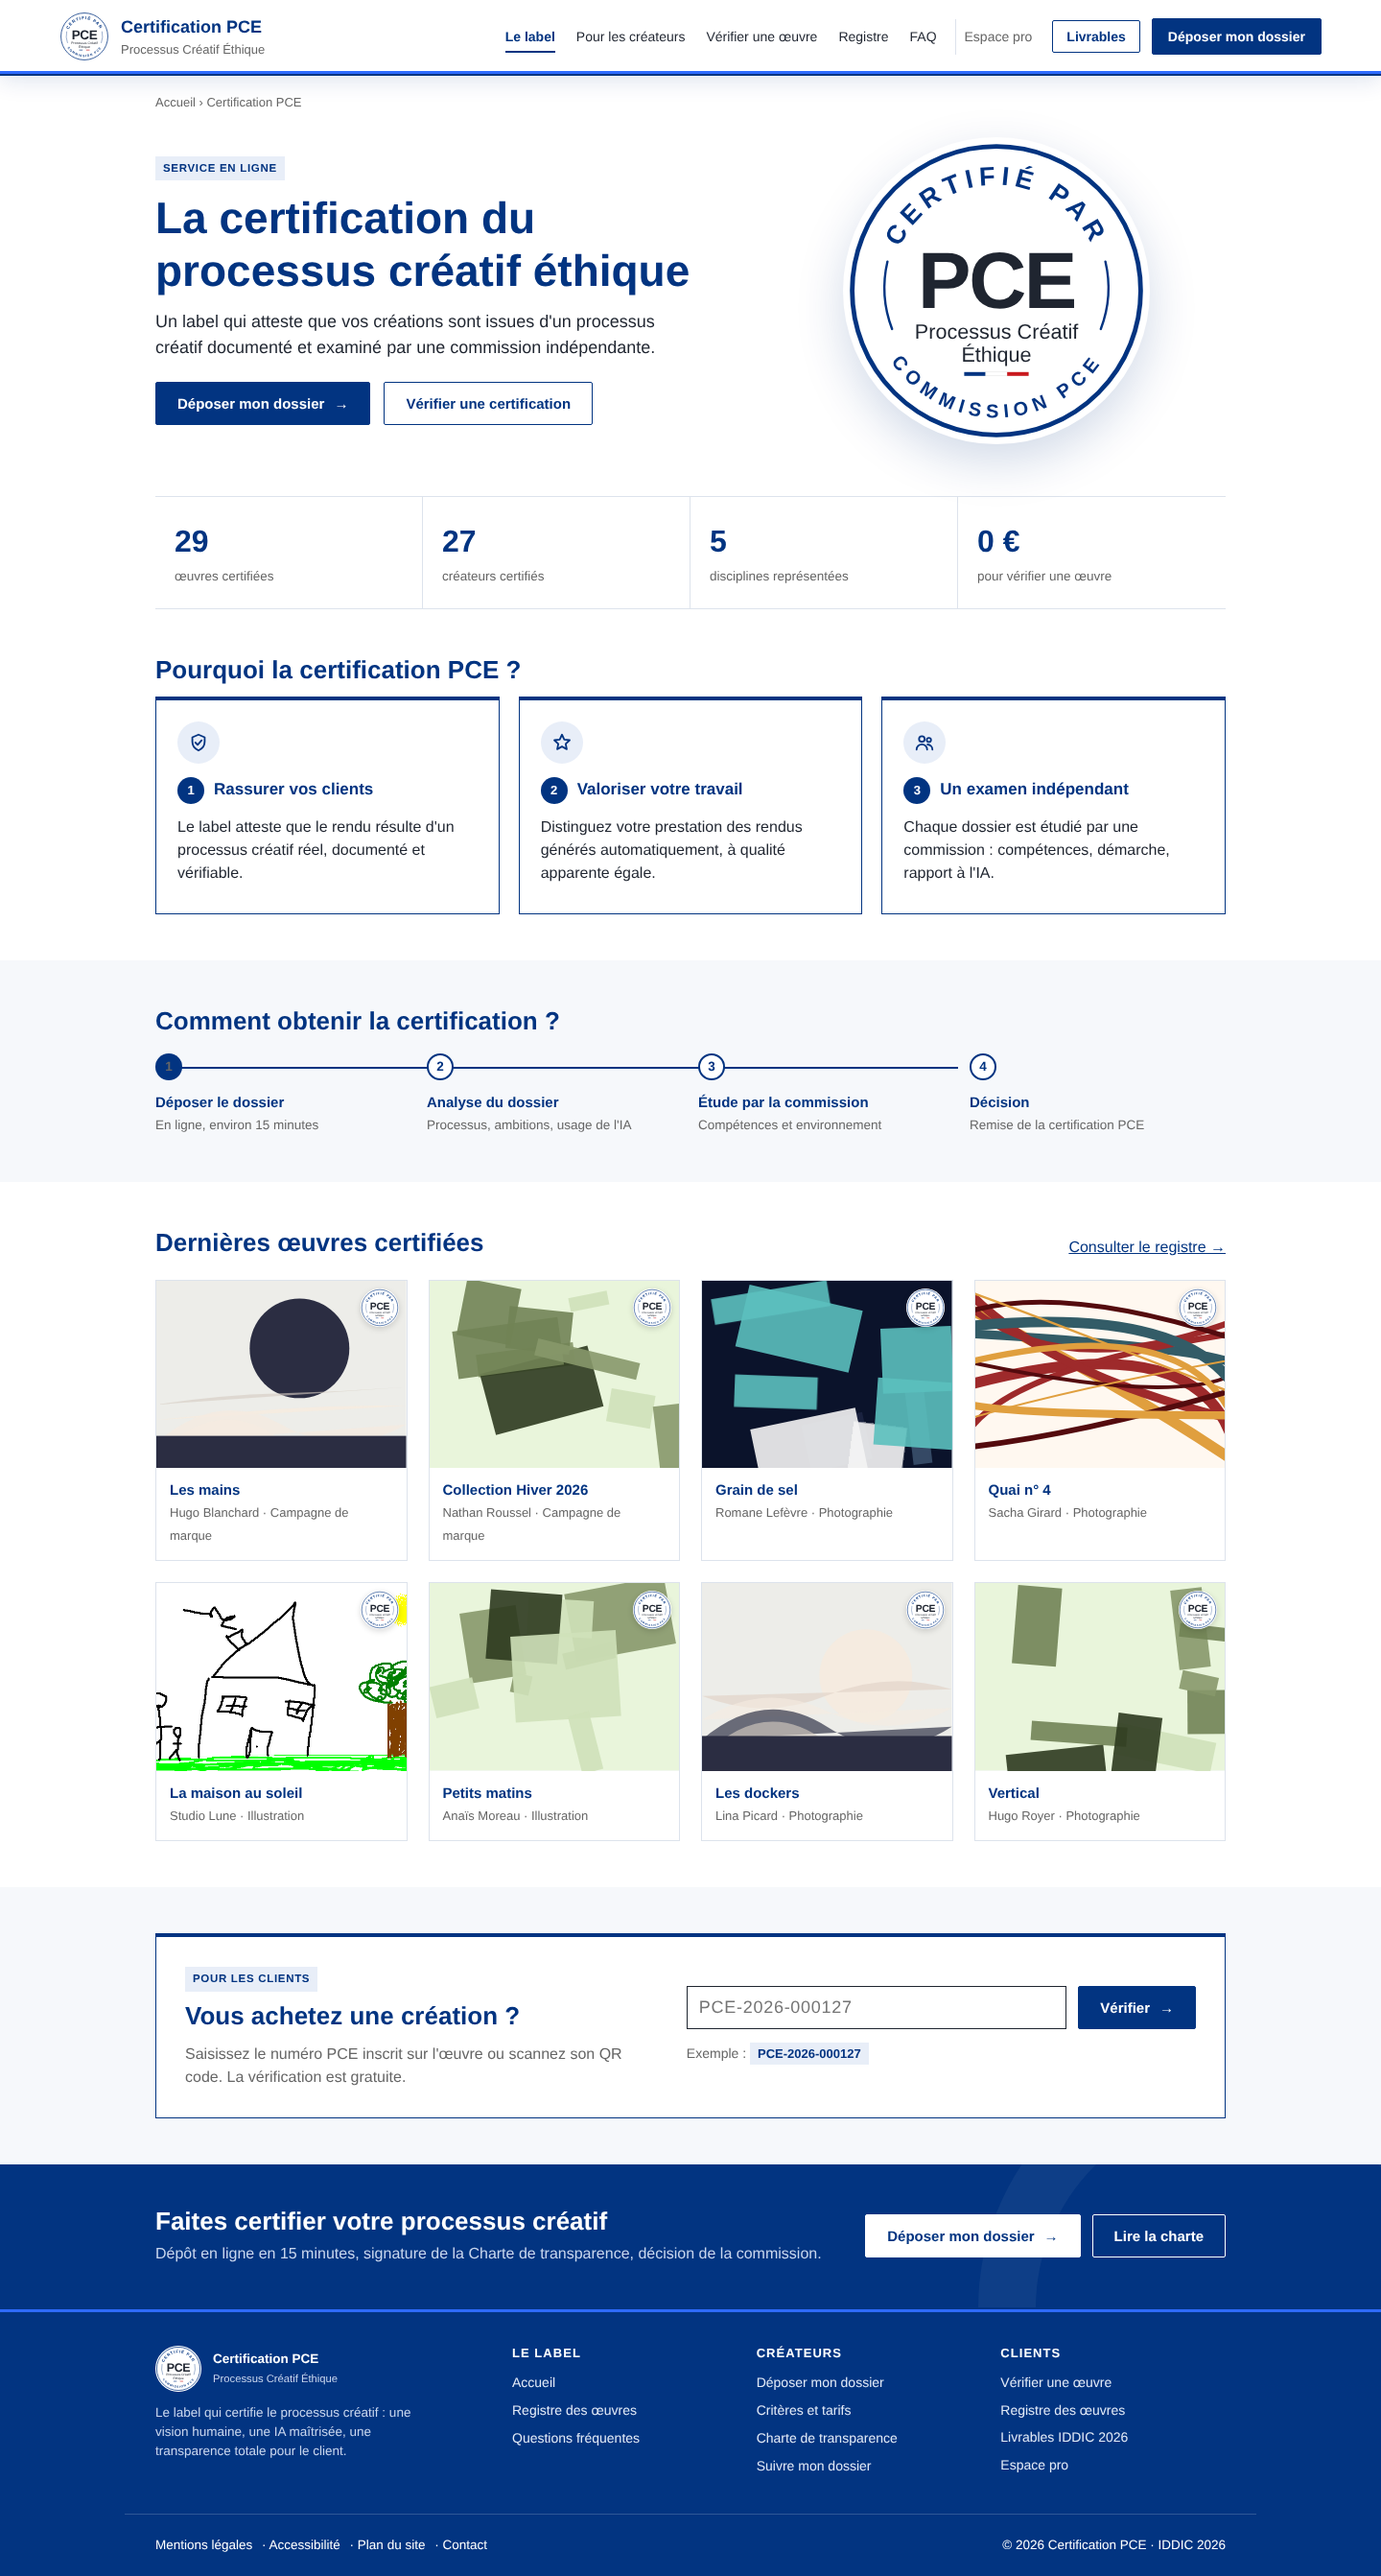
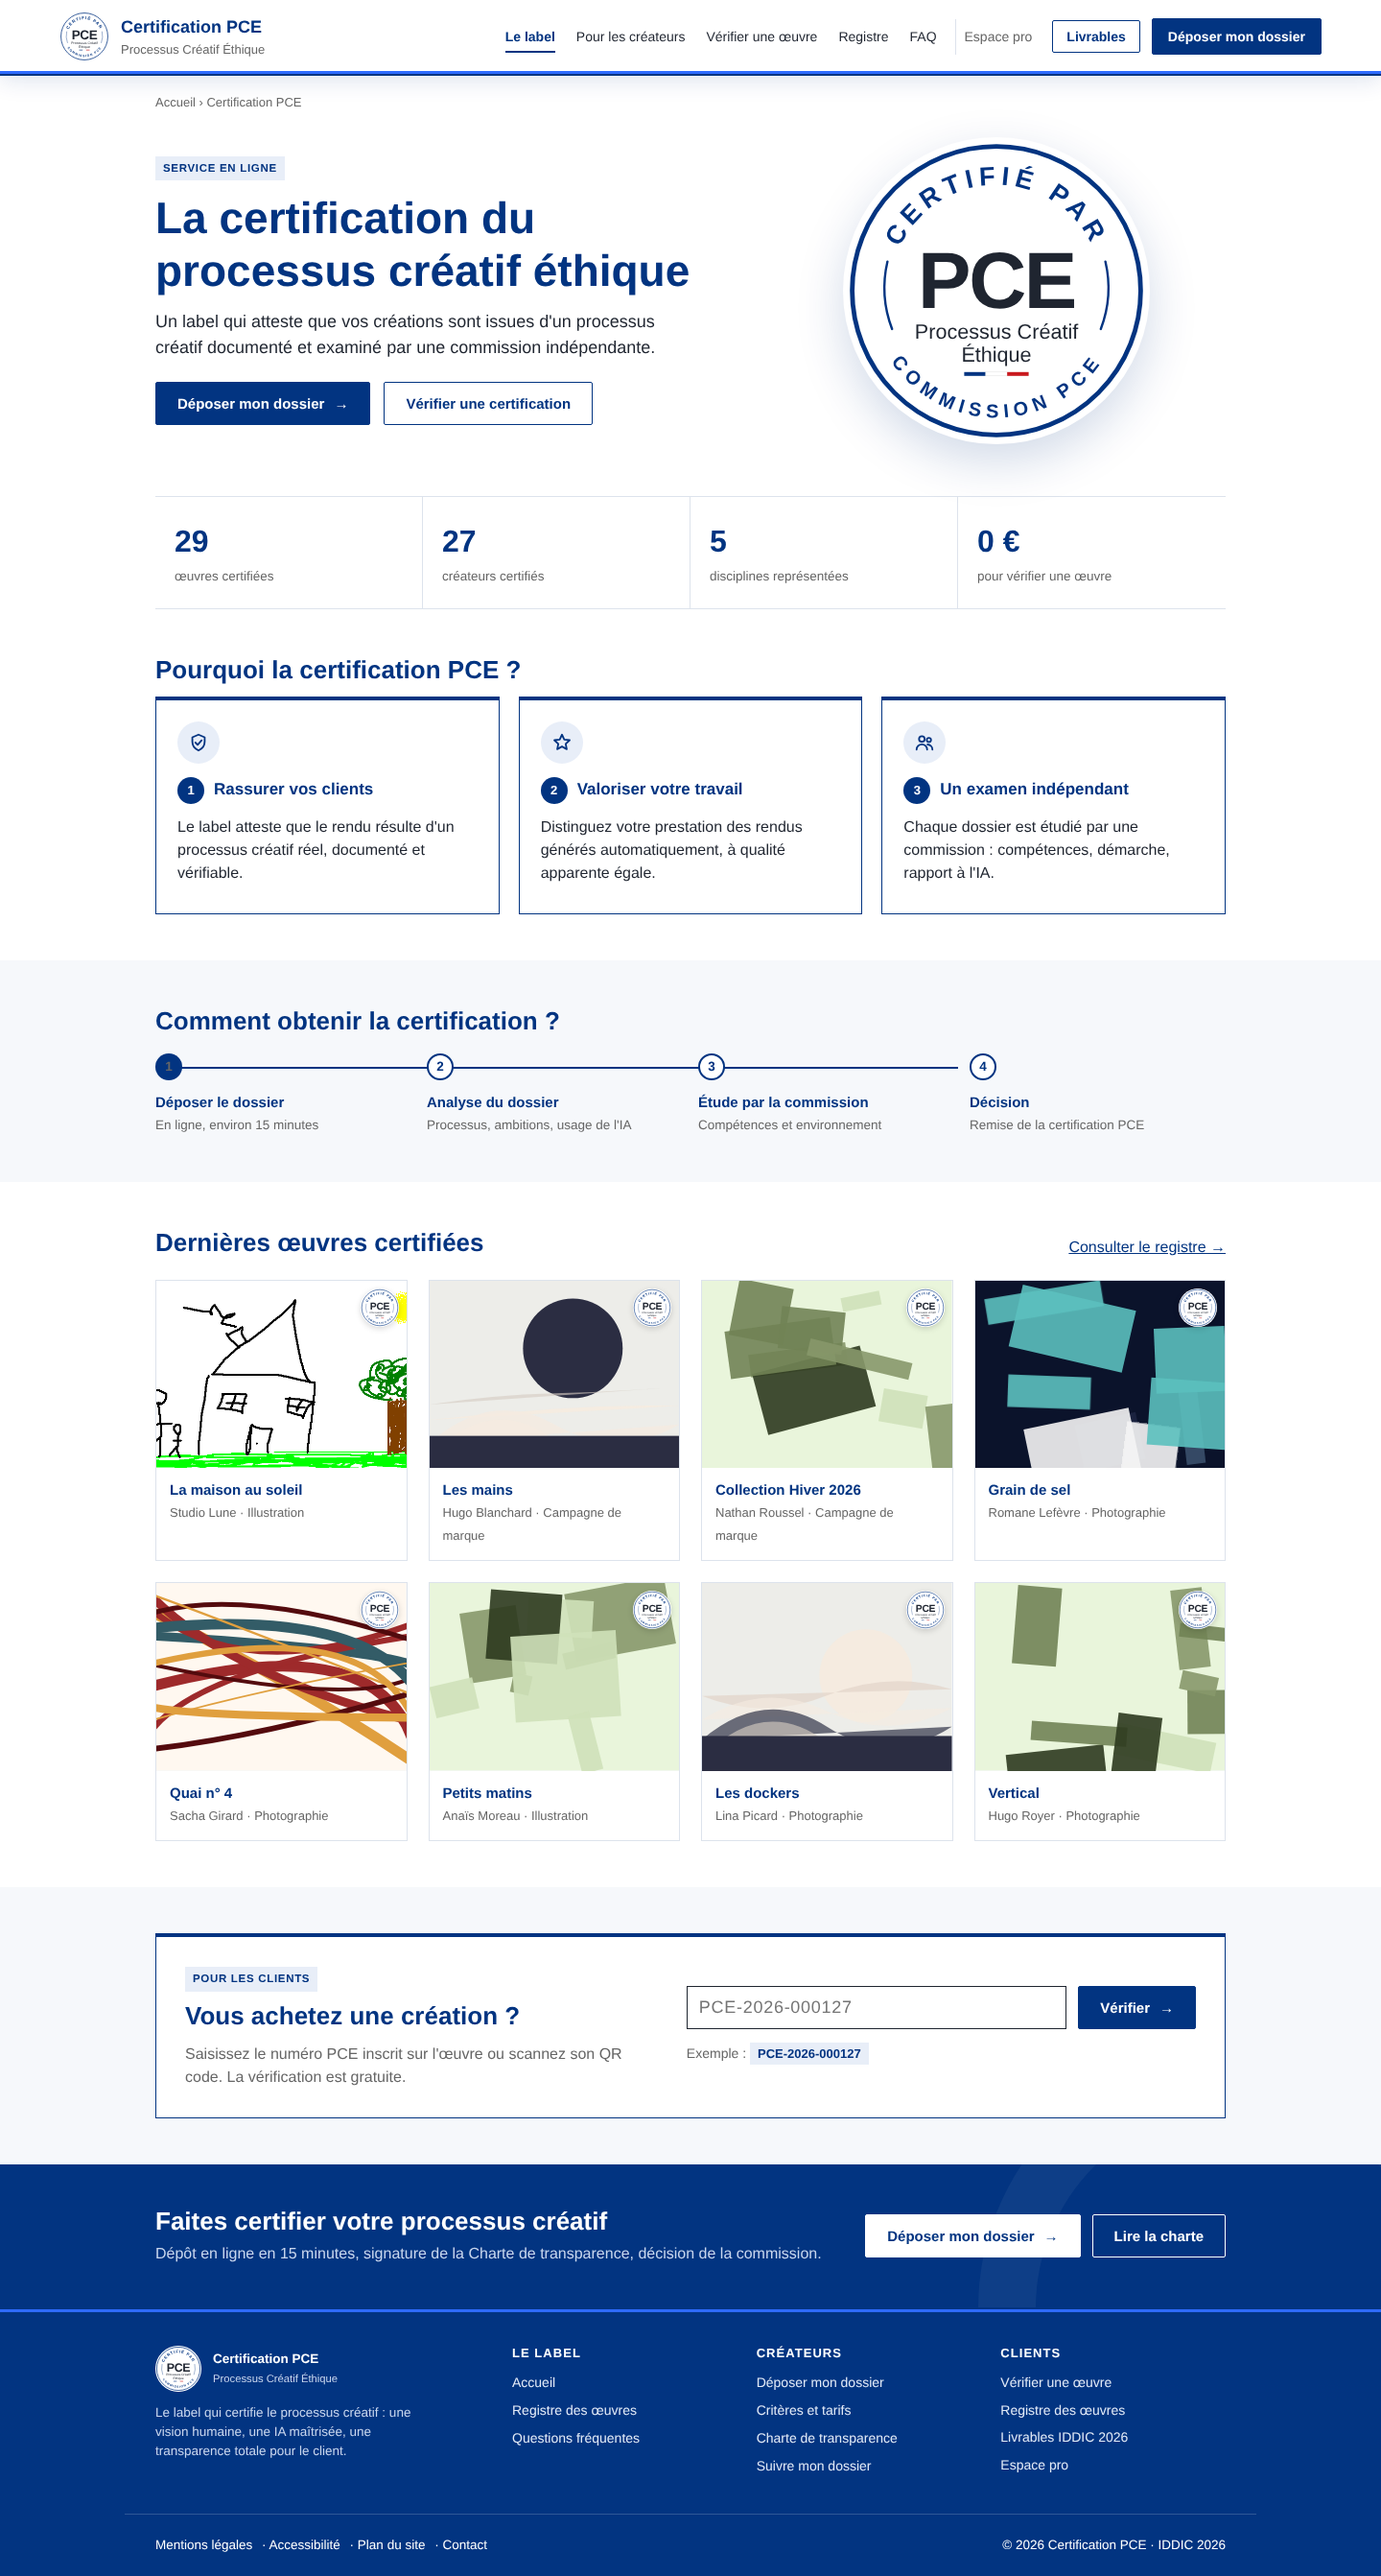
La maison au soleil en tête des dernières œuvres et du registre
Claude-Session: https://claude.ai/code/session_013D7uRxLFz2dHeA6eheZQbo

Changed region(s): [[0.0938, 0.4946, 0.9062, 0.5873], [0.0938, 0.6182, 0.3125, 0.711]]

diff --git a/livrable/Prototype_PCE.html b/livrable/Prototype_PCE.html
@@ -2967,7 +2967,7 @@ function vueAccueil() {
   </div></section>
   <section class="section"><div class="conteneur">
     <div style="display:flex;justify-content:space-between;align-items:end;gap:16px;flex-wrap:wrap" class="rev"><h2 style="margin:0">Dernières œuvres certifiées</h2><a href="#/registre">Consulter le registre →</a></div>
-    <div class="galerie" style="margin-top:22px">${cert.slice(0, 8).map(carteOeuvre).join("")}</div>
+    <div class="galerie" style="margin-top:22px">${vedetteEnTete(cert).slice(0, 8).map(carteOeuvre).join("")}</div>
   </div></section>
   <section class="section fond"><div class="conteneur"><div class="verif-home rev">
     <div><span class="tag">Pour les clients</span><h2 style="margin-top:10px">Vous achetez une création ?</h2><p class="muted" style="margin:0">Saisissez le numéro PCE inscrit sur l'œuvre ou scannez son QR code. La vérification est gratuite.</p></div>
@@ -2982,6 +2982,9 @@ function initAccueil() {
   $("#vh-f").onsubmit = e => { e.preventDefault(); const n = $("#vh-n").value.trim(); if (n) location.hash = "#/verifier/" + encodeURIComponent(n); };
   $$("[data-vh]").forEach(b => b.onclick = () => { location.hash = "#/verifier/" + b.dataset.vh; });
 }
+// « La maison au soleil » toujours en tête des œuvres certifiées
+const VEDETTE = "PCE-2026-000127";
+const vedetteEnTete = l => [...l].sort((a, b) => (b.id === VEDETTE) - (a.id === VEDETTE));
 const carteOeuvre = o => `<a class="oeuvre-c rev" href="#/oeuvre/${o.id}"><div class="vignette">${visuel(o)}<img class="mini-sceau" src="${LOGO}" alt=""><span class="voir">Voir le certificat →</span></div><div class="txt"><b>${esc(o.titre)}</b><small>${esc(o.createur)} · ${esc(o.type)}</small></div></a>`;
 
 function vueCreateurs() {
@@ -3059,7 +3062,7 @@ function vueRegistre() {
 function initRegistre() {
   const f = () => {
     const q = $("#r-q").value.trim().toLowerCase(), t = $("#r-t").value;
-    const l = DB.data.oeuvres.filter(o => o.statut === "certifiee" && (!t || o.type === t) && (!q || (o.titre + " " + o.createur + " " + o.id).toLowerCase().includes(q)));
+    const l = vedetteEnTete(DB.data.oeuvres.filter(o => o.statut === "certifiee" && (!t || o.type === t) && (!q || (o.titre + " " + o.createur + " " + o.id).toLowerCase().includes(q))));
     $("#r-g").innerHTML = l.length ? l.map(carteOeuvre).join("") : `<div class="vide-msg" style="grid-column:1/-1">Aucune œuvre ne correspond à votre recherche.</div>`;
     revele();
   };
